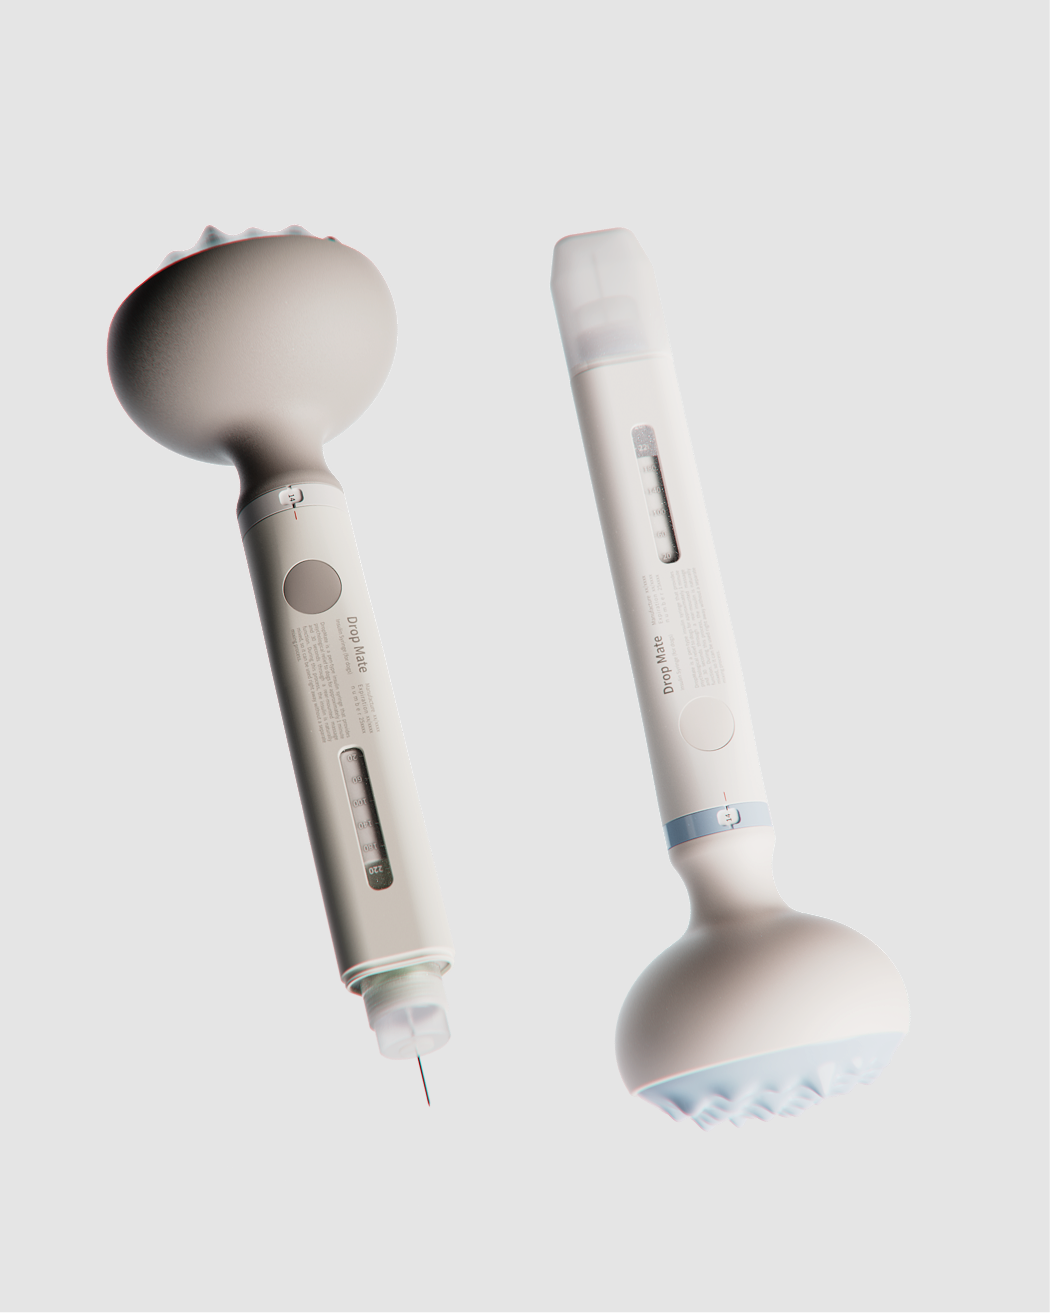
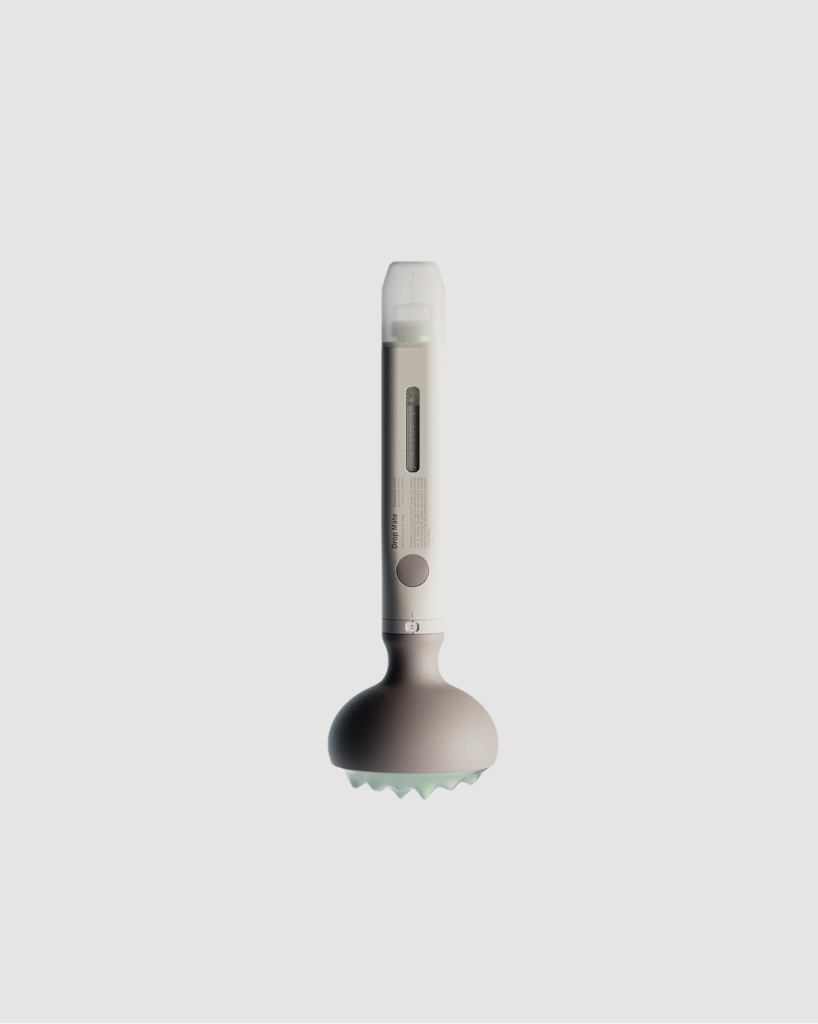
Update second and third images of Dropmate to new full-width images

Changed region(s): [[0.0917, 0.1562, 0.8252, 0.875], [0.3973, 0.8125, 0.4279, 0.8438]]

diff --git a/works/dropmate.html b/works/dropmate.html
@@ -74,10 +74,10 @@
           <div class="story-block story-block--full fade-in">
             <img src="../01-WORK-COVERS/Dropmate.png" alt="Dropmate 00">
           </div>
-          <div class="story-block fade-in">
+          <div class="story-block story-block--full fade-in">
             <img src="../02-WORK-DETAIL/Dropmate/1.png" alt="Dropmate 01">
           </div>
-          <div class="story-block fade-in">
+          <div class="story-block story-block--full fade-in">
             <img src="../02-WORK-DETAIL/Dropmate/2.png" alt="Dropmate 02">
           </div>
           <div class="story-block fade-in">
